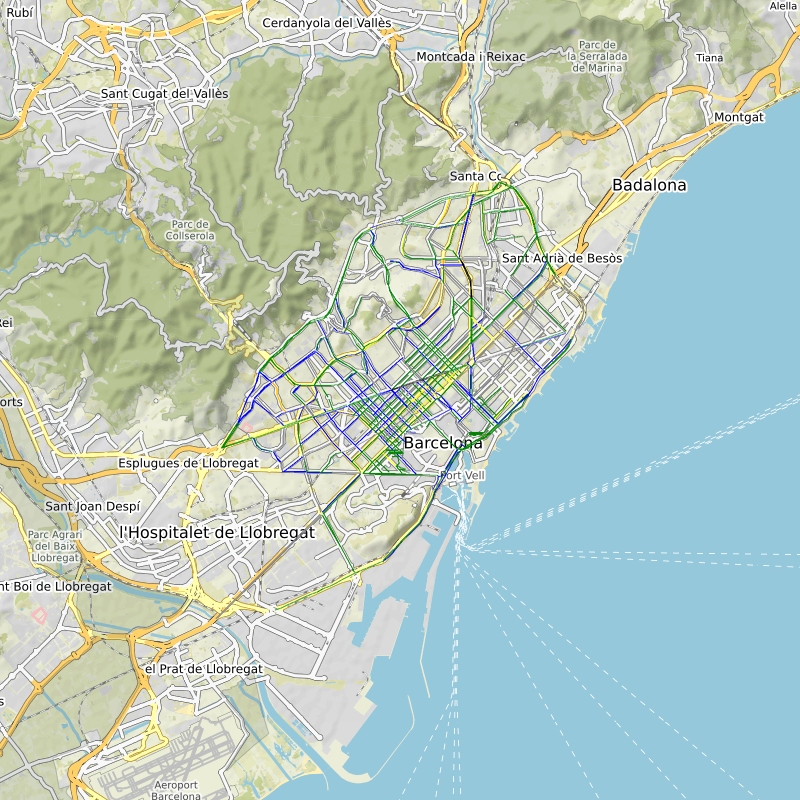
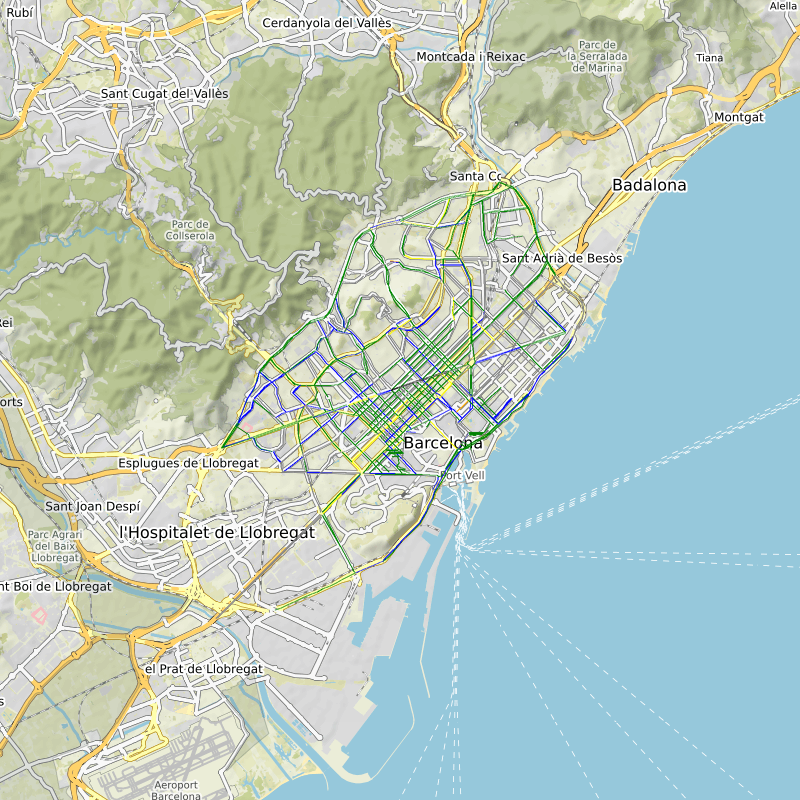
tOT TEU NANO

diff --git a/i-go1.py b/i-go1.py
@@ -100,7 +100,7 @@ def plot_highways(highways, filename, SIZE):
     #ploting the data
     m = StaticMap (SIZE, SIZE) #test values
     for highway in highways:
-        if highway.way_id != -1: #only existing higways must be painted
+        if highway.way_id != -1: #only existing highways must be painted
             line = Line(highway.coordinates, 'red', 1) #highway[2] has to be the list of coordinates in pairs
             m.add_line(line)
 
@@ -124,7 +124,7 @@ def download_congestions(CONGESTIONS_URL, n):
 def plot_congestions (highways, congestions, filename,  SIZE):
     m = StaticMap (SIZE, SIZE)
     for highway in highways:
-        #only existing higways must be painted
+        #only existing highways must be painted
         if highway.way_id != -1:
             congestion_type = congestions[highway.way_id - 1].congestion
             if congestion_type == 0:
@@ -233,17 +233,17 @@ def fast_build(graph, highways, congestions, ARBITRARY, INFINIT):
             id_end= get_nearest_node(graph, end_posnode)
 
             print("starting node= ", id_start, "other node= ", id_end)
-            #try finding the shortest path for those nodes, as the graph is not connex it won't be always possible 
+            #try finding the shortest path for those nodes, as the graph is not connex it won't be always possible
             try:
-                path= ox.shortest_path(graph, id_start, id_end, weight= 'lenght')
+                path= ox.shortest_path(graph, id_start, id_end, weight= 'length')
                 for node in range(1, len(path)):
                     for i in range(len(graph[path[node-1]][path[node]])): #necessary iteration for the di_graph
                         graph[path[node-1]][path[node]][i]['congestion']=congestions[highway.way_id-1].congestion #salta un KEY ERROR AQUí, ara mateix no sabria dir que és
-                
+
             except nx.NetworkXNoPath:
                 print('could not find path for that one :)') #path could not be found
         print('status update, highways completed: ', highway_id_counter)
-        
+
         highway_id_counter+=1
         #HERE, THE CONGESTION VALUES THAT WE KNOW SHOULD BE SET IN THE RESPECTIVE PATHS OF ALL EDGES THAT ARE CONTAINED IN ALL OUR HIGHWAYS
         #I THINK THAT WE COULD COMPUTE THE AVERAGE CONGESTION WHEN READING AND SET IT AS THE VALUE OF THE ARBITRARY CONSTANT IF WE DON'T
@@ -262,7 +262,7 @@ def fast_build(graph, highways, congestions, ARBITRARY, INFINIT):
 
 
 ##################################################################################################################################
-"""Aqui el build graph tarda la puta vida perk passem per cada una de les coordenades de higways """
+"""Aqui el build graph tarda la puta vida perk passem per cada una de les coordenades de highways """
 def build_i_graph(graph, highways, congestions, ARBITRARY, INFINIT):
     #adding a congestion parameter to edges at an arbitrary value arb
     nx.set_edge_attributes(graph, ARBITRARY, name='congestion')
@@ -272,48 +272,49 @@ def build_i_graph(graph, highways, congestions, ARBITRARY, INFINIT):
         #preconition: 4 coordinates for a highway at least
         if (highway.way_id > 0):
             start= highway.coordinates[0]
-        i = 1
-        first = True
-        while i < len (highway.coordinates): 
-            end =  highway.coordinates[i]
-            #once we have start and end we geolocalize them
-            if (first):
-                start_posnode= ox.geocode(start)
-                end_posnode= ox.geocode(end)
-            else:
-                end_posnode= ox.geocode(end)
-            
-            #TROBEM ELS ID'S DELS NODES INICI I FINAL EN ELS QUE ENS TROBEM
-            if (first):
-                id_start= get_nearest_node(graph,start_posnode) #check if float() indicator is needed
-                first= False
-            else:
-                id_start = id_end
+            i = 1
+            first = True
+            while i < len (highway.coordinates):
+                end =  highway.coordinates[i]
+                #once we have start and end we geolocalize them
+                if (first):
+                    start_posnode= ox.geocode(start)
+                    end_posnode= ox.geocode(end)
+                else:
+                    end_posnode= ox.geocode(end)
 
-            id_end= get_nearest_node(graph, end_posnode)
+                #TROBEM ELS ID'S DELS NODES INICI I FINAL EN ELS QUE ENS TROBEM
+                if (first):
+                    id_start= get_nearest_node(graph,start_posnode) #check if float() indicator is needed
+                    first= False
+                else:
+                    id_start = id_end
 
-            #ONCE WE HAVE NODES GEOLOCALIZED WE GET THE PATH BETWEEN THEM AND ASSUME IT'S THE HIGHWAY
-            try:
-                path = ox.shortest_path(graph, id_start, id_end, weight = 'length') #returns a list of node id's that form the shortest path between start node and finish node
-                #we now want to iterate through the edges that link this nodes and add the respective congestion parameter related to the highway
-                print (path) #hi ha alguna cosa per aquí que no funciona
-                path_start = path[0]
-                first = True
-                j = 1
-                while (j < len(path)): #actualitza congestió per cada parells de nodes consecutiva del camí més curt
-                    if (not first):
-                        path_start = path_end
-                    path_end = path[j]
-                    for k in range (len(graph[path_start][path_end])): #needs this kind of iteration because of the digraph format
-                        graph[path_start][path_end][k]['congestion'] = congestions[highway_id_counter - 1].congestion #add the congestion parameter of the whole highway
-                    first = False
-                    j += 1
-            except:
-                break
-                "there is no path between those two nodes, skip"
-        print('status update, highways completed: ', highway_id_counter)
+                id_end= get_nearest_node(graph, end_posnode)
 
-        highway_id_counter+=1
+                #ONCE WE HAVE NODES GEOLOCALIZED WE GET THE PATH BETWEEN THEM AND ASSUME IT'S THE HIGHWAY
+                try:
+                    path = ox.shortest_path(graph, id_start, id_end, weight = 'length') #returns a list of node id's that form the shortest path between start node and finish node
+                    #we now want to iterate through the edges that link this nodes and add the respective congestion parameter related to the highway
+                    print (path) #hi ha alguna cosa per aquí que no funciona
+                    if len (path) > 1: #if path is just one node, program collapse because there aren't any edge to change it's congestion
+                        path_start = path[0]
+                        first = True
+                        j = 1
+                        while (j < len(path)): #actualitza congestió per cada parells de nodes consecutiva del camí més curt
+                            if (not first):
+                                path_start = path_end
+                                path_end = path[j]
+                                for k in range (len(graph[path_start][path_end])): #needs this kind of iteration because of the digraph format
+                                    graph[path_start][path_end][k]['congestion'] = congestions[highway_id_counter - 1].congestion #add the congestion parameter of the whole highway
+                                    first = False
+                                j += 1
+                except:
+                    break
+                    "there is no path between those two nodes, skip"
+            print('status update, highways completed: ', highway_id_counter)
+
+            highway_id_counter+=1
         #HERE, THE CONGESTION VALUES THAT WE KNOW SHOULD BE SET IN THE RESPECTIVE PATHS OF ALL EDGES THAT ARE CONTAINED IN ALL OUR HIGHWAYS
         #I THINK THAT WE COULD COMPUTE THE AVERAGE CONGESTION WHEN READING AND SET IT AS THE VALUE OF THE ARBITRARY CONSTANT IF WE DON'T
         #WANT TO OVERCOMPLICATE IT, ONCE ALL EDGES HAVE A CONGESTION VALUE WE CAN PROCEED AND ADD THE ITIME CONCEPT WHICH WILL BE ANOTHER PARAMETER
@@ -338,6 +339,27 @@ def build_i_graph(graph, highways, congestions, ARBITRARY, INFINIT):
 #FIRST VERSION, HIGHWAY COORDINATE FORMAT NEEDS TO BE ADJUSTED FOR THIS IMPLEMENTATION TO RUN, ALSO NEEDS TESTING AND TALKING THE EXACT FORMAT
 #BUT I THINK THAT THE MAIN IDEA IS THERE
 
+def checking_highways_congestions (highways, congestions):
+    if len (highways) != len (congestions):
+        print ("la primera en la frente")
+        return
+    n = len (highways)
+    for i in range (n):
+        if highways[i].way_id != i + 1:
+            if highways[i].way_id != -1:
+                print ("index de la highway no coincideix amb la posicio")
+                print (i+1)
+                print (highways[i].way_id)
+        if congestions[i].c_id != i + 1:
+            if congestions[i].c_id != -1:
+                print ("index del congestion no coincideix amb la posicio")
+                print (i+1)
+                print (congestions[i].c_id)
+        if highways[i].way_id != congestions[i].c_id:
+            print ("index de la highway no coincideix amb el de congestion")
+            print (i+1)
+    print ("pol puto subnormal")
+
 def test():
     # loads/downloads graph (using cache) and plot it on the screen
     if not exists_graph(GRAPH_FILENAME) or not exists_graph(PLOT_GRAPH_FILENAME):
@@ -359,17 +381,19 @@ def test():
     congestions = download_congestions(CONGESTIONS_URL, n)
     plot_congestions(highways, congestions, 'congestions.png', SIZE)
 
+    #checking_highways_congestions (highways, congestions)
+
     #testing particular del path per dos nodes arbitraris per veure com funciona
     '''i=0
     for node, info in graph.nodes.items():
-        if i==0:    
+        if i==0:
             id_start= node
         if i==1:
             id_end= node
         i+=1
         if i==2:
             break
-    path= ox.shortest_path(graph, id_start, id_end, weight= 'lenght')
+    path= ox.shortest_path(graph, id_start, id_end, weight= 'length')
     path_start= path[0]
     j=1
     while (j<len(path)):
@@ -382,9 +406,9 @@ def test():
         j+=1
     print (path)'''
 
-    #i_graph= build_i_graph(di_graph, highways,congestions, ARBITRARY, INFINIT) no funciona pq el path es queda encallat en una iteració on va imprimint sempre 
+    i_graph= build_i_graph(di_graph, highways,congestions, ARBITRARY, INFINIT) #no funciona pq el path es queda encallat en una iteració on va imprimint sempre
     #el mateix node
-    i_graph= fast_build(di_graph, highways,congestions, ARBITRARY, INFINIT)
+    #i_graph= fast_build(di_graph, highways,congestions, ARBITRARY, INFINIT)
 
 #testing
 test()
